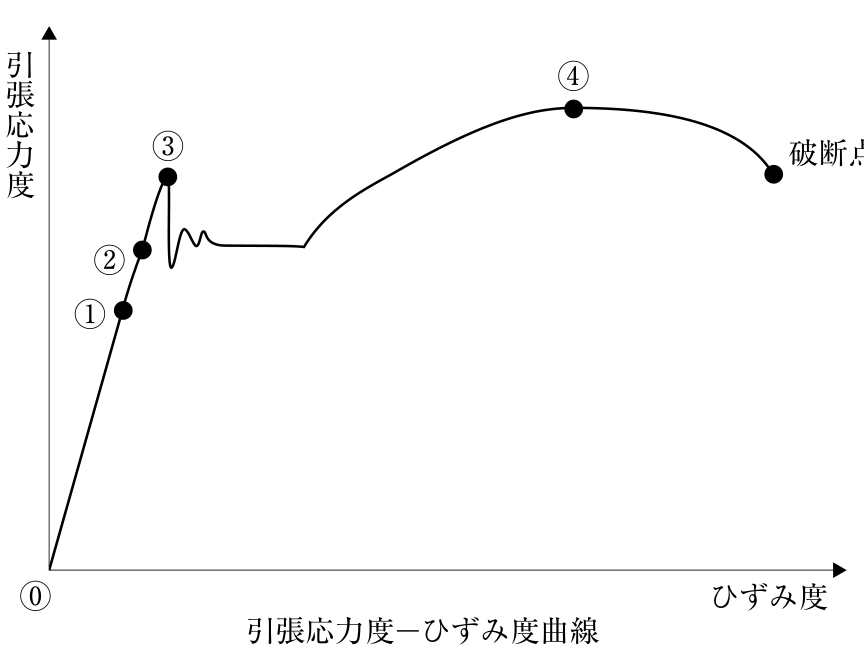
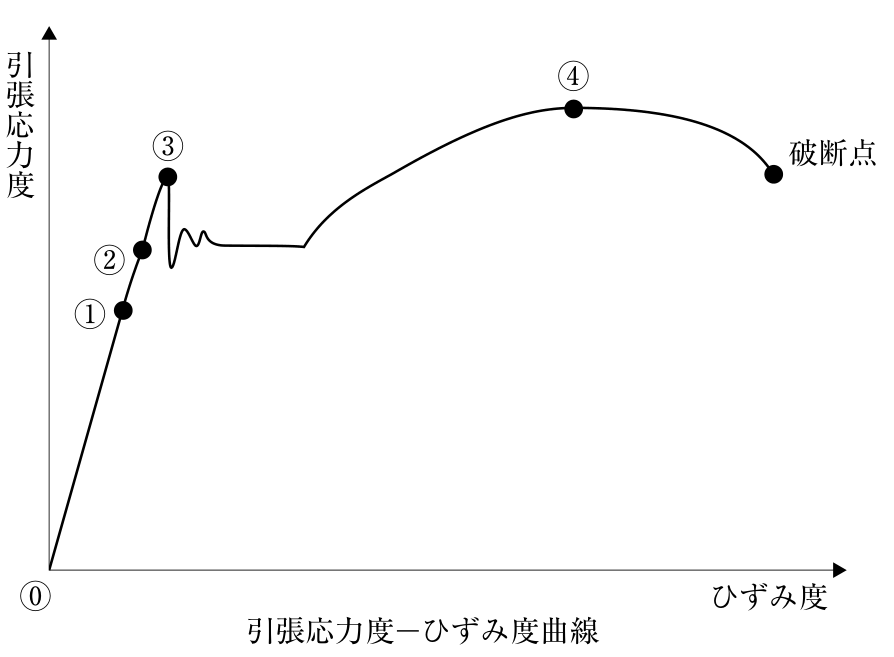
fix(staging): preserve complete steel stress curve label

diff --git a/scripts/verify-kenchikushi2-owner-pdfs.py b/scripts/verify-kenchikushi2-owner-pdfs.py
@@ -226,7 +226,7 @@ def source_questions_2025_ii(path):
 
 
 def source_questions_2025_iii(path):
-    figures={2:(225,137,543,405),3:(283,99,550,242),4:(70,120,440,550),5:(220,95,550,278),12:(142,98,430,317)}
+    figures={2:(225,137,543,405),3:(283,99,550,242),4:(70,120,440,550),5:(220,95,550,278),12:(142,98,440,317)}
     questions={}
     with pdfplumber.open(path) as pdf:
         for pn in range(2,14):

diff --git a/reports/lk5d-2025-III-review-1.md b/reports/lk5d-2025-III-review-1.md
@@ -1,0 +1,18 @@
+**FAIL — 修正必須1件。** 対象HEAD：`85d1b8d50acf40dde014cf924eff5f9ad0f38708`
+
+- **q23の原図が右端で欠けています。** [画像参照箇所（2025-III.ts:1199）](/C:/Users/kanet/20260522/wt-kenchikushi2/data/qualification-staging/kenchikushi2/2025-III.ts:1199)のPNGで、「破断点」の「点」が途中で切れています。原本PDF12ページでは文字全体があります。切り出し右端430 ptに対し、文字は約434.55 ptまであります。**右端を440 pt程度まで広げて再切り出しし、ラベル全体を確認してください。** 正答には影響しませんが、原図忠実性の不備です。
+
+それ以外の確認結果：
+
+- 全25本文・125肢・25公式正答・125肢解説を確認。転記・正答・技術内容に追加の不備なし。
+- 6図・2構造化表を照合。上記以外に欠落なし。
+- 独立計算：q1＝1,038×10⁴ mm⁴、q2＝12 N/mm²、q3＝MB 12 kN·m／|Q| 1 kN、q4＝図A／最大せん断力P、q5＝−2√3 kN。
+- q13・16～19・21の指定論点、q17の1/√3、2025年1月基準と4月例外を確認。壁梁450 mmは[国交省資料](https://www.mlit.go.jp/common/001234590.pdf)、屋根瓦は[告示説明資料](https://www.mlit.go.jp/jutakukentiku/build/content/S46-109.pdf)とも整合。
+- index・manifest・README・テスト・検証スクリプト・照合報告を確認。ログは29テスト成功、型検査エラー記載なし、validateはfail=0。HEAD限定の本文・選択肢照合も成功。
+- `publicAllowed=false`／`needsReview=true`を維持。公開接続なし。次バッチの未コミット変更は除外しました。
+
+ファイル・Git・設定の変更、レポート作成は行っていません。
+
+照合原本：
+:codex-file-citation{path="C:/Users/kanet/Documents/Codex/2026-11-02/task-2/owner-provided/kenchikushi2/2k-2025-1st-gakka3_4.pdf" purpose="source"}
+:codex-file-citation{path="C:/Users/kanet/Documents/Codex/2026-11-02/task-2/owner-provided/kenchikushi2/2k-2025-1st-gokakukijun.pdf" purpose="source"}
